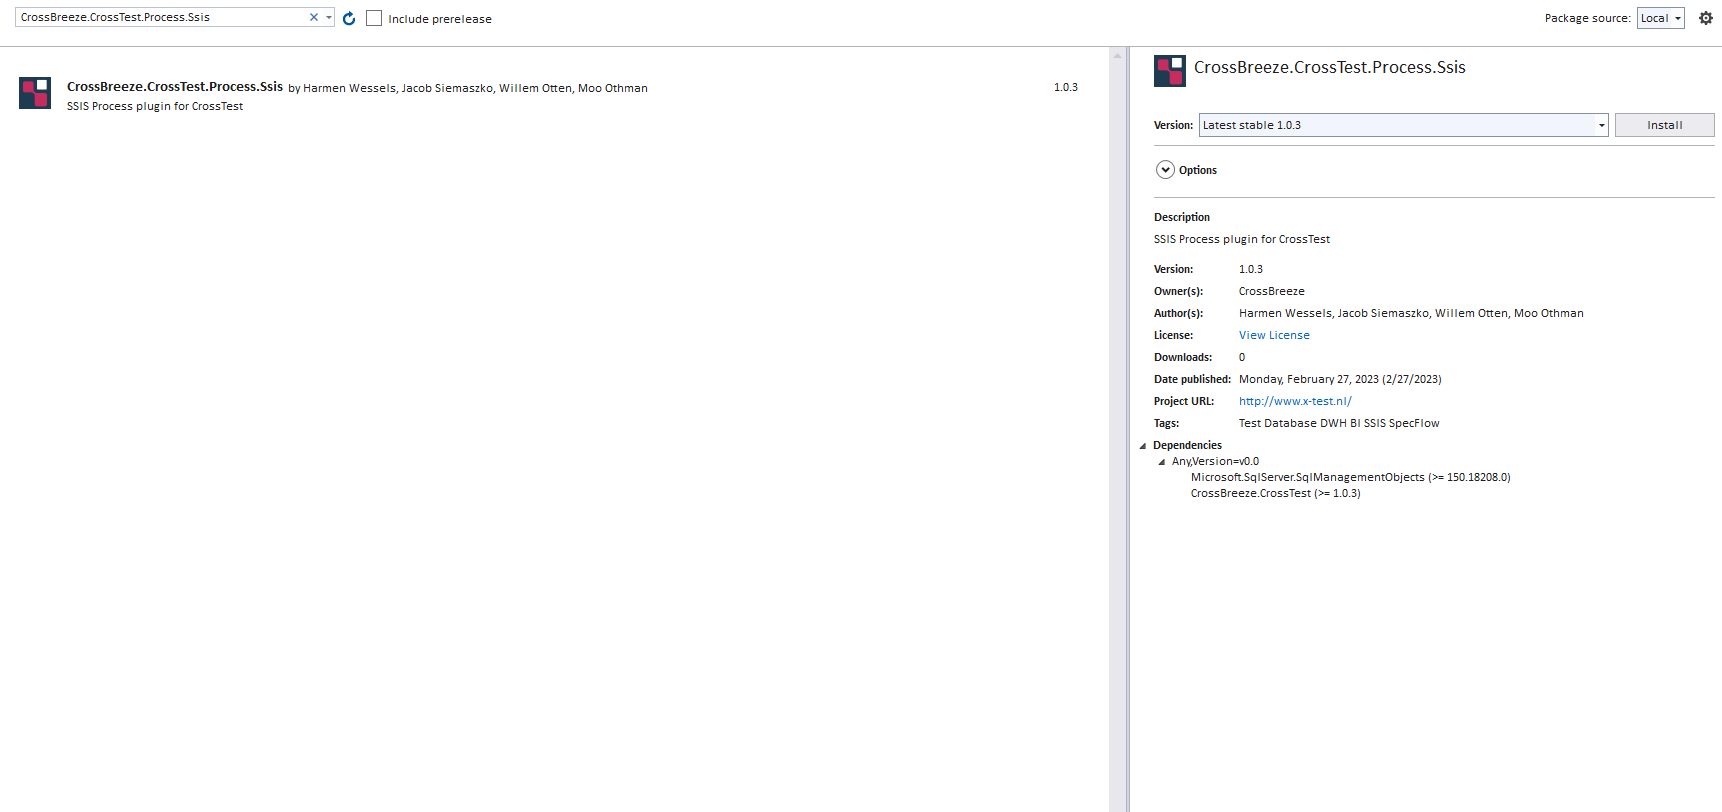
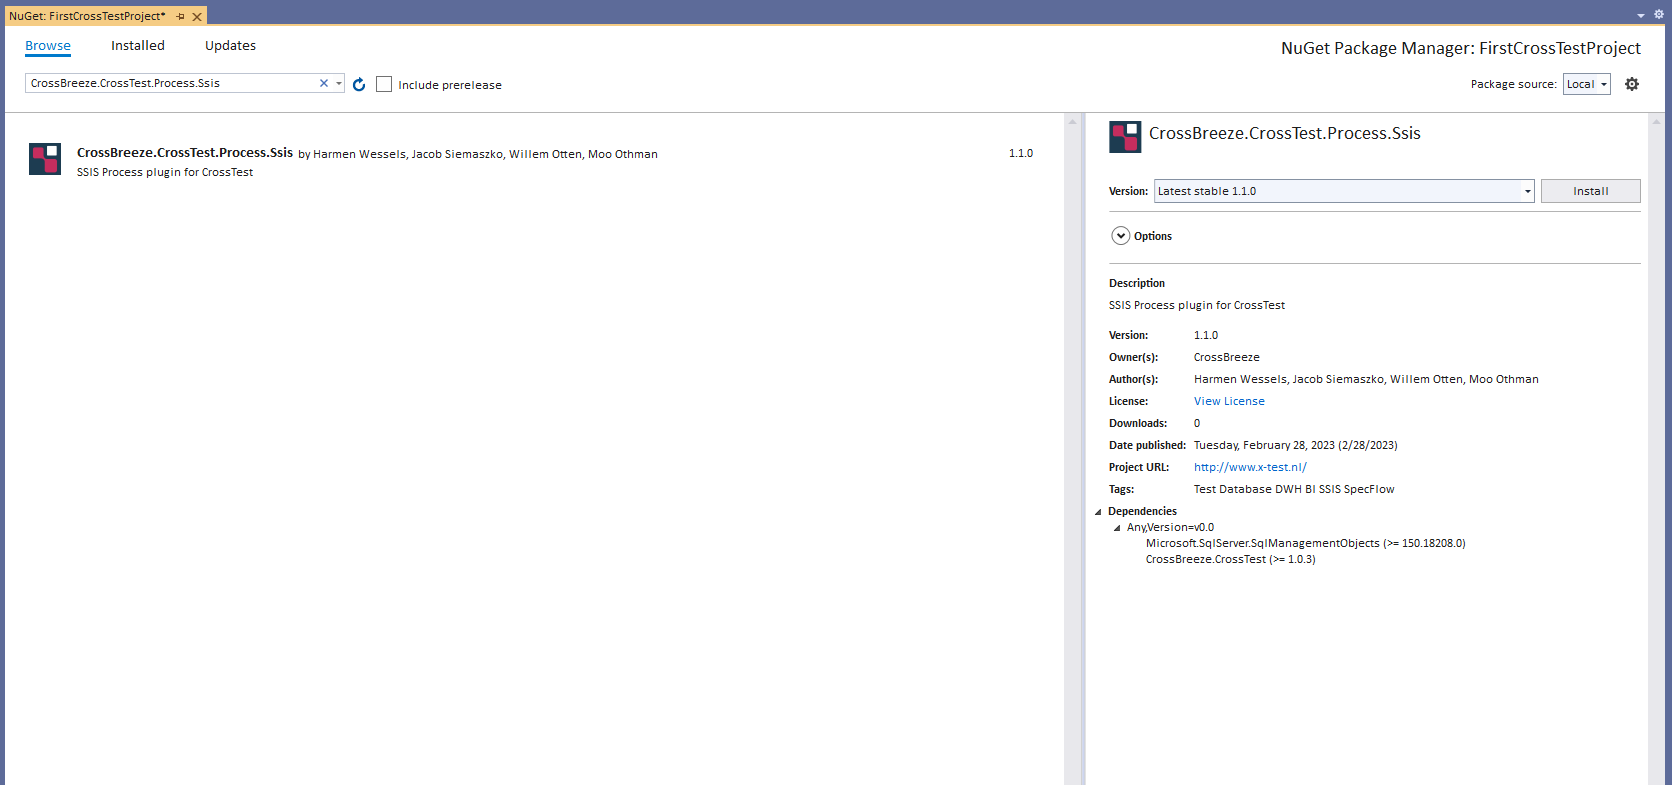
Update CrossTest NuGet Packages to version 1.1.0.0 && update Release Note

Changed region(s): [[0.0, 0.0, 1.0, 1.0]]

diff --git a/Documentation/docs/ReleaseNotes.md b/Documentation/docs/ReleaseNotes.md
@@ -21,7 +21,7 @@ Click on the header of a version number to go to the documentation of that speci
 [//]: # (>         * [X] Some issue...)
 
 ## [Version 1.0](../1.0/)
-- [ ] 1.0.3.0 <sup>27-02-2023</sup>
+- [ ] 1.1.0.0 <sup>28-02-2023</sup>
 > !!! success "New features"
 >     * [ ] Configuration
 >         * [ ] Azure Data Factory
@@ -35,6 +35,8 @@ Click on the header of a version number to go to the documentation of that speci
 >             - [X] Execute a ADF pipeline with template parameters and its own parameters
 > !!! success "Enhanced features"
 >     * [ ] Configuration
+>         * [ ] SpecFlow
+>             - [X] Upgrade package to version 3.9.74
 >         * [ ] Process
 >             - [X] Process configuration removed
 >         * [ ] Microsoft SQL Server Integration Services
